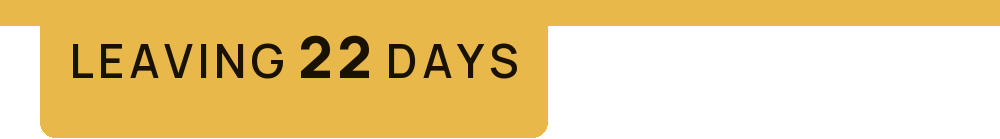
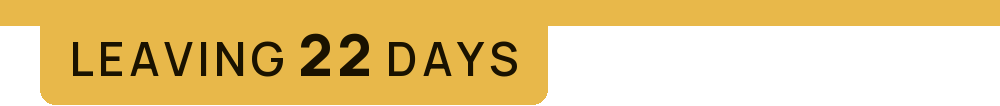
fix(winswatch): LEAVING plate has the same height as the status tabs

diff --git a/scripts/winswatch/gen_assets.py b/scripts/winswatch/gen_assets.py
@@ -105,18 +105,18 @@ def _line_and_tab(color, ink, parts, out, bookmark=False):
     """Status edge line (26px, full width) + a tab hanging from its bottom edge at x=40 with the text baked in.
     parts: [(text, font_px, weight), ...] drawn on one baseline, 0.1em tracking. Every tab uses the same 46px size; only the
     weight changes (prefix SemiBold, variable part ExtraBold), the LEAVING count is 57px ExtraBold.
-    Padding 18/29/15 (top/sides/bottom); bookmark=True is the LEAVING plate: 20/29/46, same plain rounded shape."""
+    Padding 18/29/15 (top/sides/bottom) for tabs and the LEAVING plate alike (bookmark only picks the colours)."""
     fonts = {(px, wt): _tab_font(px, wt) for _, px, wt in parts}
     track = 4.6
     gap = fonts[(parts[0][1], parts[0][2])].getlength(" ") + track     # word gap between parts
     text_w = sum(_tracked_width(t, fonts[(px, wt)], track) for t, px, wt in parts) + gap * (len(parts) - 1)
     plate_w = int(round(text_w)) + 58
     x0, x1 = 40, 40 + plate_w
-    top_pad = 20 if bookmark else 18
+    top_pad = 18                              # LEAVING plate matches the status tabs exactly (Chase, 2026-09-20)
     cap = 33                                  # cap height of the 46px face; every part shares its baseline
     plate_top = EDGE - 1                      # overlap the line by 1px so line + tab read as one unit
     baseline = plate_top + top_pad + cap
-    y1 = baseline + 13 + (46 if bookmark else 15)       # padding below the 1.5 line box, as in the artifact
+    y1 = baseline + 13 + 15                   # padding below the 1.5 line box, as in the artifact
     im = Image.new("RGBA", (W, y1 + 2), (0, 0, 0, 0)); d = ImageDraw.Draw(im)
     d.rectangle([0, 0, W, EDGE - 1], fill=_hex(color))
     d.rounded_rectangle([x0, plate_top, x1, y1], radius=15, fill=_hex(color))

diff --git a/scripts/winswatch/tests/test_gen_assets.py b/scripts/winswatch/tests/test_gen_assets.py
@@ -14,7 +14,7 @@ def test_generate_all(tmp_path: Path):
     assert Image.open(tmp_path / "bar_bottom_ep.png").size == (1920, 269)   # episode canvas is 1920x1080
     assert Image.open(tmp_path / "reel.png").size == (95, 95)
     bm = Image.open(tmp_path / "bookmark_12.png").convert("RGBA")
-    assert bm.width == 1000 and 130 < bm.height < 150
+    assert bm.width == 1000 and bm.height == Image.open(tmp_path / "tab_NewEp_Wed.png").height   # LEAVING plate = tab height
     tab = Image.open(tmp_path / "tab_NewEp_Wed.png").convert("RGBA")
     assert tab.width == 1000 and 100 < tab.height < 112
     # plate fits its text: plate spans x=40..(text+58); the widest tab is wider than the narrowest
